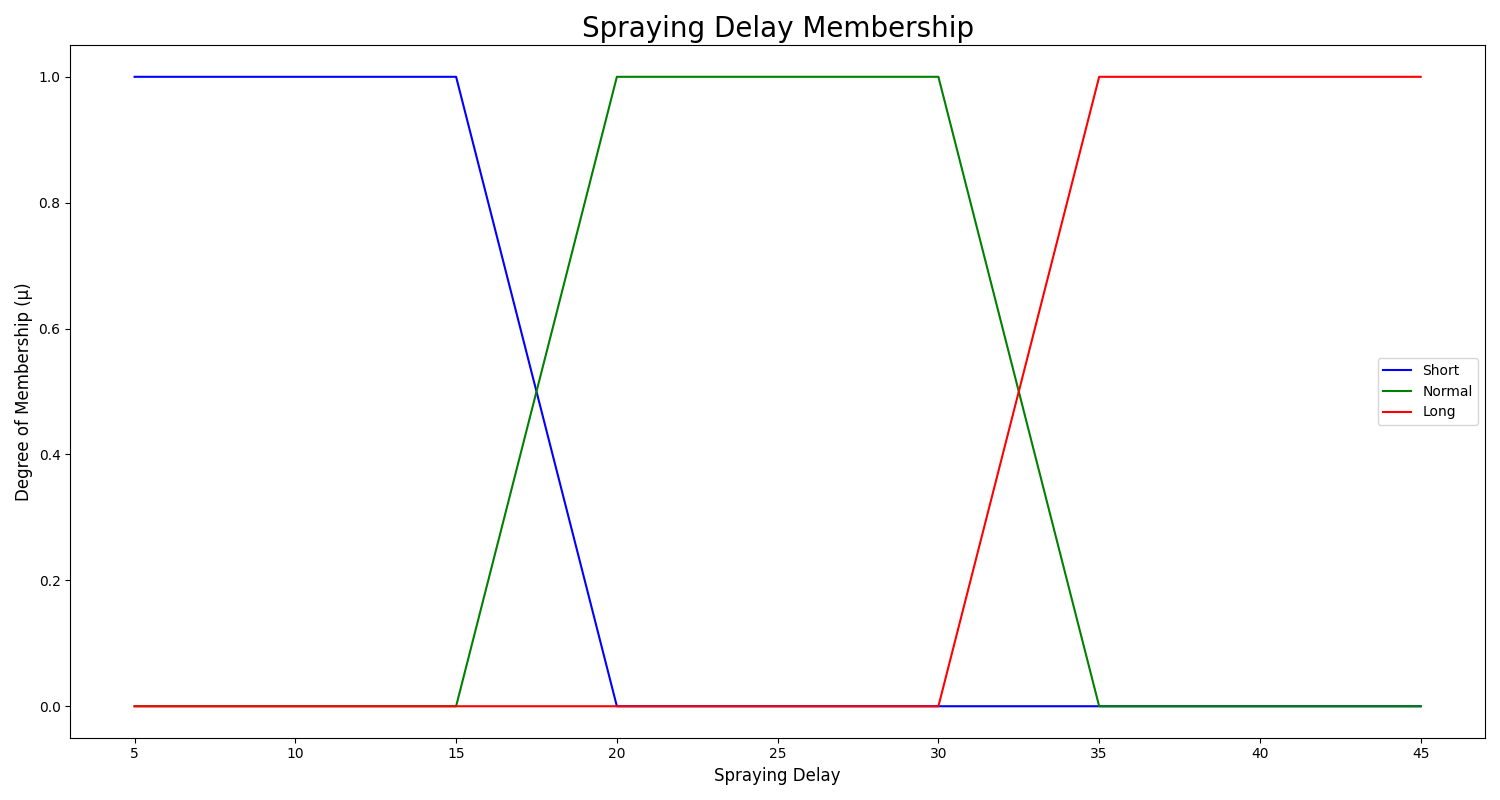
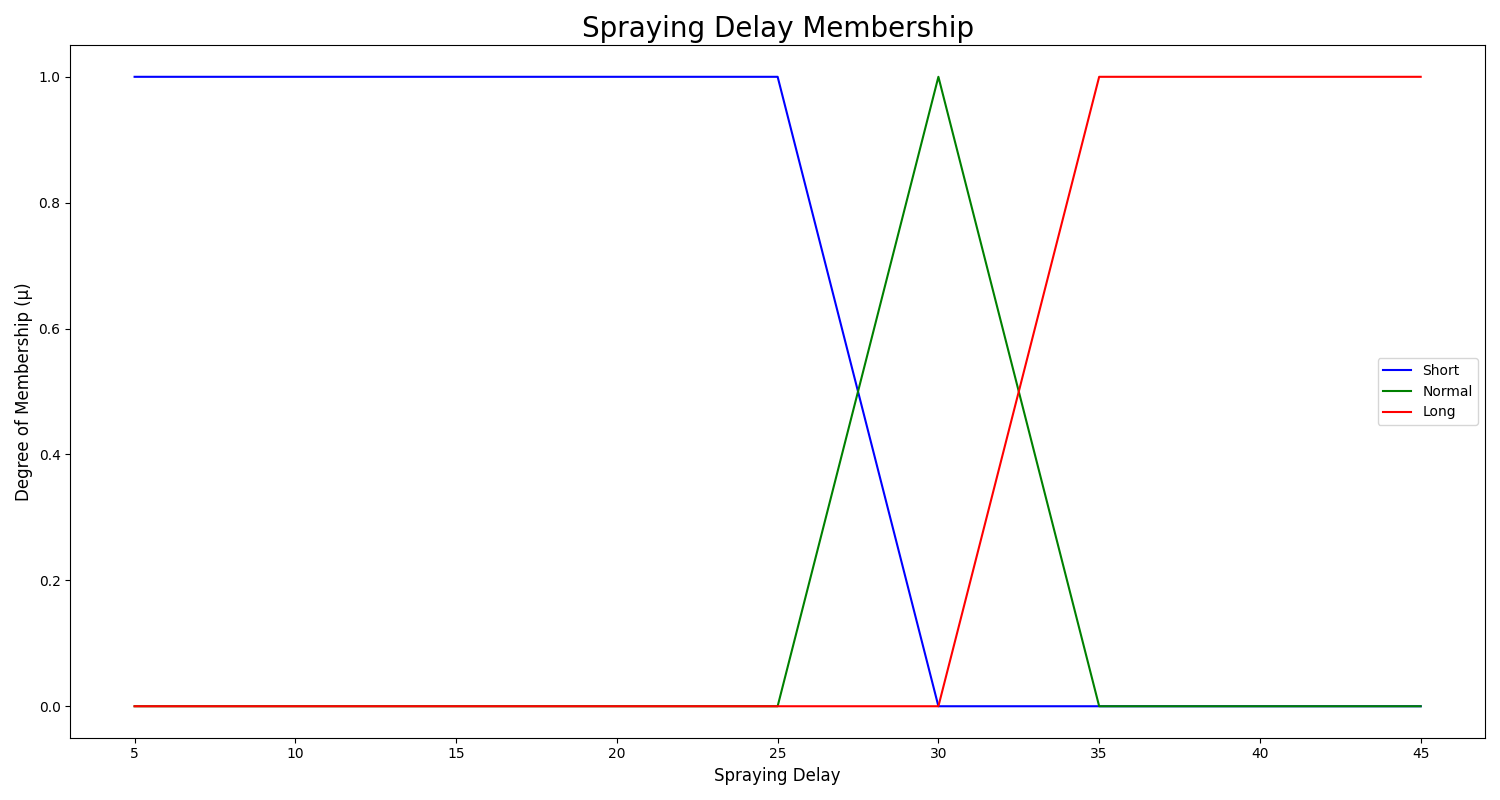
fix

Changed region(s): [[0.3067, 0.0938, 0.644, 0.125], [0.552, 0.4062, 0.5827, 0.5625], [0.3373, 0.4062, 0.368, 0.5625]]

diff --git a/Post/Index/AdaptiveControll.py b/Post/Index/AdaptiveControll.py
@@ -52,9 +52,9 @@ class AdaptiveControll:
         | Hot             | Moist      | Normal         |
         | Optimal         | Dry        | Short          |
         | Optimal         | Optimal    | Normal         |
-        | Optimal         | Moist      | Normal         |
+        | Optimal         | Moist      | Long           |
         | Cool            | Dry        | Normal         |
-        | Cool            | Optimal    | Normal         |
+        | Cool            | Optimal    | Long           |
         | Cool            | Moist      | Long           |
 
         Example:
@@ -93,8 +93,8 @@ class AdaptiveControll:
         memberHumidity_moist = fuzz.trapmf(memberHumidity, [80, 85, 100, 100])
 
         # Create Membership Spraying Delay
-        memberDelay_short = fuzz.trapmf(memberDelay, [5, 5, 15, 20])
-        memberDelay_normal = fuzz.trapmf(memberDelay, [15, 20, 30, 35])
+        memberDelay_short = fuzz.trapmf(memberDelay, [5, 5, 25, 30])
+        memberDelay_normal = fuzz.trimf(memberDelay, [25, 30, 35])
         memberDelay_long = fuzz.trapmf(memberDelay, [30, 35, 45, 45])
 
         # Calculating the degree of membership Air Temperature
@@ -135,11 +135,9 @@ class AdaptiveControll:
         rule9 = np.fmin(memberAirTemperature_cool_degree, memberHumidity_moist_degree)
 
         # Mamdani Inference System
-        delay_short = np.fmax(rule1, np.fmax(rule2, rule4))
-        delay_normal = np.fmax(
-            rule3, np.fmax(rule5, np.fmax(rule6, np.fmax(rule7, rule8)))
-        )
-        delay_long = rule9
+        delay_short = np.fmax(rule1, np.fmax(rule2, rule4))  # Rule 1, 2, 4
+        delay_normal = np.fmax(rule3, np.fmax(rule5, rule7))  # Rule 3, 5, 7
+        delay_long = np.fmax(rule6, np.fmax(rule8, rule9))  # Rule 6, 8, 9
 
         activation_short = np.fmin(delay_short, memberDelay_short)
         activation_normal = np.fmin(delay_normal, memberDelay_normal)
